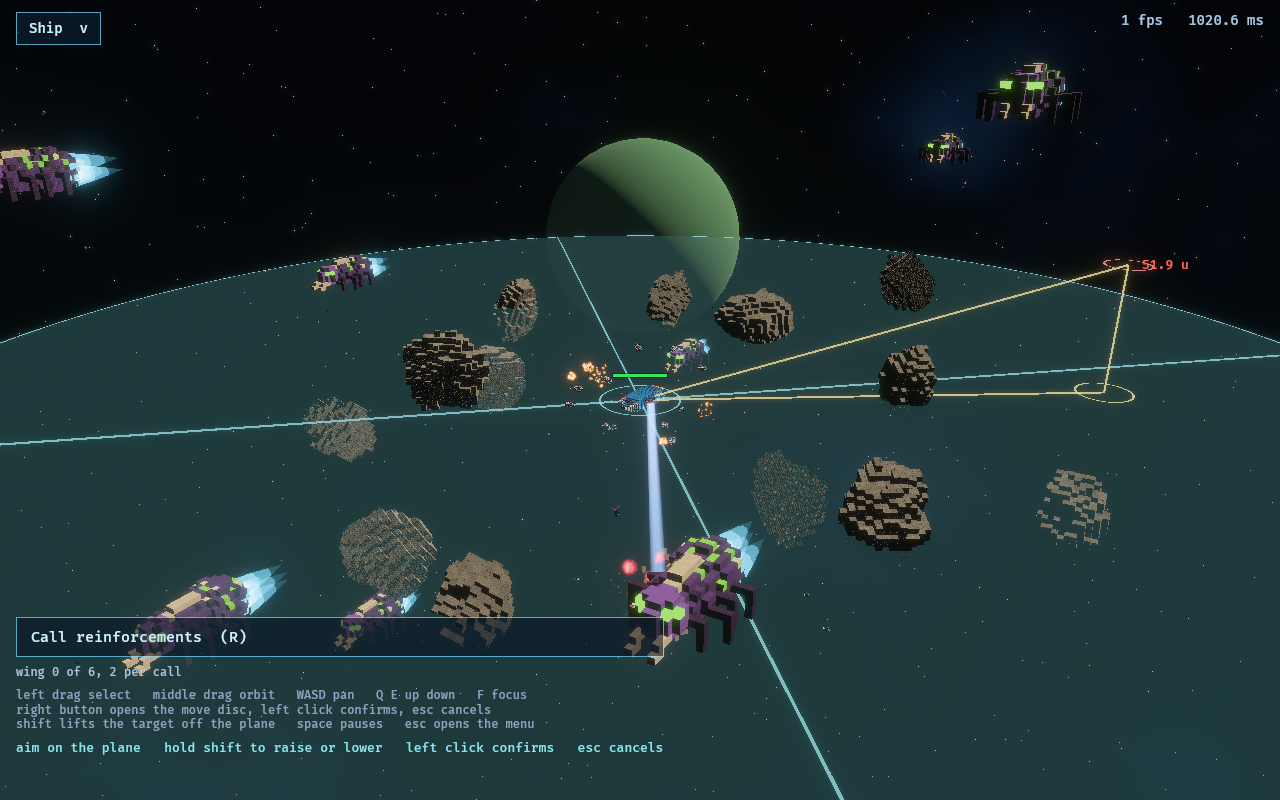
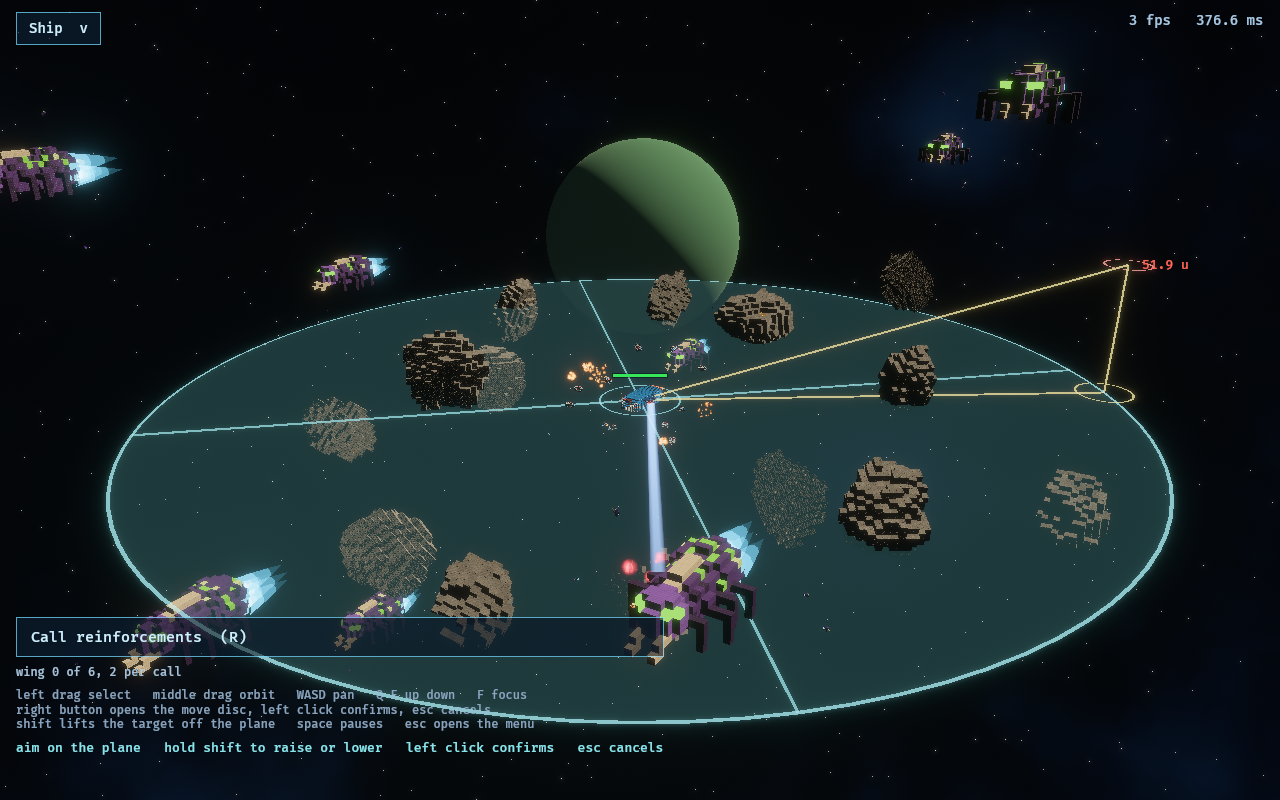
The move disc's rim is at the cursor
The disc was drawn as a fixed range ring at MOVE_RANGE radii while the
cursor named a point a third of the way out, which the owner caught off
the screenshot: a disc that does not reach the cursor says nothing about
the order. It is Homeworld's disc now, which grows with the mouse. Its
radius is the order's own distance on the plane, so the gold ring sits on
the rim by construction, the gold line out to it is a radius, and shift
raises the point straight off the rim: the triangle's base is the disc's
radius. It stops growing at MOVE_RANGE, where the cursor is already
clamped, and never falls under the gold ring's own radius so a zero order
does not drop the disc under the ship.

The prototype (artifact version 5) takes the same change so the reference
and the port agree, and the docs say why.

Re-rendered headless with `--hud --aim`: the wide shot's rim passes
through the destination ring at 50 units, the close shot's at 17.

Claude-Session: https://claude.ai/code/session_01S5xU8GXfcLHEtff8wVUhmg

Changed region(s): [[0.0, 0.2812, 1.0, 1.0], [0.875, 0.0, 0.9688, 0.0312]]

diff --git a/crates/swarm_app/src/main.rs b/crates/swarm_app/src/main.rs
@@ -3769,10 +3769,9 @@ const ARRIVE: f32 = 0.6;
 /// How fast a hull turns onto its heading, in radians a second, eased.
 const HULL_TURN: f32 = 2.2;
 /// How far one order may send a ship, in radii of the biggest hull in the
-/// selection: the radius of the move disc. Past the carriers' standoff band
-/// (`HIVE_FAR` is twenty two), so an order can reach the fight and a little
-/// beyond it, and no further. The disc IS the range: a point past its rim is
-/// not an order the ship can take, so the cursor is clamped to the rim rather
+/// selection: where the move disc stops growing. Past the carriers' standoff
+/// band (`HIVE_FAR` is twenty two), so an order can reach the fight and a
+/// little beyond it, and no further: a point past it is clamped to it rather
 /// than refused.
 const MOVE_RANGE: f32 = 24.0;
 /// Under this much drag, in pixels, a press is a click and not a box.
@@ -4475,12 +4474,11 @@ fn add_disc(pos: &mut Vec<[f32; 3]>, col: &mut Vec<[f32; 4]>, idx: &mut Vec<u32>
 /// Draw the order picture, all of it in one mesh rebuilt every frame: the
 /// selection rings, the standing orders, the move disc and the pings.
 ///
-/// The disc is the approved prototype's, one to one. A LARGE cyan disc on the
-/// plane through the selection, its rim at the move range with an X across
-/// it, which is what says "this far and no further" without a number; a
-/// small gold ring where the order will land, with a gold line from the
-/// selection to it; and when shift has lifted the point, the right angle
-/// triangle: the vertical from the plane point up to the target, the direct
+/// The disc is Homeworld's. A LARGE cyan disc on the plane through the
+/// selection whose rim is at the cursor, with an X across it; a small gold
+/// ring ON that rim where the order will land, with a gold line from the
+/// selection out to it, which is the disc's radius; and when shift has lifted
+/// the point, the right angle triangle: the vertical from the plane point up to the target, the direct
 /// line from the selection to it, and a red ring at the raised point with the
 /// distance beside it (`hud_orders` draws the label). A standing order is an
 /// orange line and ring per ship until it arrives, which is the
@@ -4525,17 +4523,27 @@ fn draw_nav(
     // ---- the move disc ----
     if *mode == OrderMode::Move {
         let r = order.radius;
-        let range = order.range();
         let at = order.anchor;
+        // The disc's rim is AT THE CURSOR. Its radius is the order's own
+        // distance on the plane, so the gold ring sits on the rim by
+        // construction and shift raises the point straight off it: the
+        // triangle's base is the disc's radius. This is Homeworld's disc,
+        // which grows with the mouse, and not a range ring: the first port
+        // drew a fixed rim at `MOVE_RANGE` while the cursor named a point a
+        // third of the way out, and a disc that does not reach the cursor
+        // says nothing about the order. It stops growing where the cursor is
+        // clamped, which is `NavOrder::range`. Never smaller than the gold
+        // ring, so the disc does not vanish under the ship at a zero order.
+        let reach = (order.on_plane - at).length().max(r * 0.85);
         // The fill is ADDITIVE and in linear light, so the prototype's 0.13
         // of alpha blended sRGB is about 0.03 here: at 0.13 the whole field
         // went teal and the ships inside it read as under water.
-        add_disc(&mut pos, &mut col, &mut idx, at, range, CYAN, 0.03, 96);
-        add_ring(&mut pos, &mut col, &mut idx, at, range, r * 0.045, CYAN, 0.95, 96);
+        add_disc(&mut pos, &mut col, &mut idx, at, reach, CYAN, 0.03, 96);
+        add_ring(&mut pos, &mut col, &mut idx, at, reach, r * 0.045, CYAN, 0.95, 96);
         // The X: two diameters at forty five and a hundred and thirty five
         // degrees, so neither lies along the line to the target.
         for a in [std::f32::consts::FRAC_PI_4, 3.0 * std::f32::consts::FRAC_PI_4] {
-            let d = Vec3::new(a.cos(), 0.0, a.sin()) * range;
+            let d = Vec3::new(a.cos(), 0.0, a.sin()) * reach;
             add_line(&mut pos, &mut col, &mut idx, eye, at - d, at + d, r * 0.03, CYAN, 0.75);
         }
         // Where it lands on the plane, and the line out to it.

diff --git a/CLAUDE.md b/CLAUDE.md
@@ -452,12 +452,17 @@ system, and every one of the four defects came from that.
   orange line and ring stand on each ship until it arrives: the order is
   visibly THERE.
 
-**The disc is the RANGE, and a point past its rim is clamped to it.** A large
-cyan disc on the plane through the selection, its rim at `MOVE_RANGE` radii
-of the biggest selected hull with an X across it; a small gold ring where the
-order lands and a gold line out to it; and lifted, the vertical, the direct
-line and a red ring at the raised point with the distance in red beside it.
-The elevation is read FROM THE CURSOR'S POSITION rather than from how far it
+**The disc's rim is AT THE CURSOR.** A large cyan disc on the plane through
+the selection whose radius is the order's own distance, with an X across it,
+so the small gold ring where the order lands sits ON the rim and the gold line
+out to it is a radius; lifted, the vertical, the direct line and a red ring at
+the raised point with the distance in red beside it, and the triangle's base
+is the disc's radius. This is Homeworld's disc, which grows with the mouse.
+The first port drew a fixed rim at `MOVE_RANGE` while the cursor named a point
+a third of the way out, and the owner caught it off the screenshot: a disc
+that does not reach the cursor says nothing about the order. It stops growing
+at `MOVE_RANGE` radii of the biggest selected hull, and a point past that is
+clamped to it. The elevation is read FROM THE CURSOR'S POSITION rather than from how far it
 moved: the plane point holds still and the target sits on the vertical through
 it at the closest point to the cursor's ray, `t = (b*e - d)/(1 - b*b)` with
 `w = P - O`. Not `O - P`, which negates `t` and put the target below the plane

diff --git a/README.md b/README.md
@@ -5,9 +5,10 @@ A real time space RTS against an alien swarm, in the voxel language of
 
 **Left drag** selects, a click picks one ship, shift adds to the selection. A
 selected ship wears a cyan ring and a health bar, and nothing else does.
-**Right click** opens the move disc on the selection: the large cyan disc is
-how far one order can send it, the small gold ring is where it will go, and
-holding **shift** lifts that point off the plane and draws the right angle
+**Right click** opens the move disc on the selection: the large cyan disc
+grows with the cursor so its rim is how far the order goes, the small gold
+ring on that rim is where it will go, and holding **shift** lifts that point
+off the rim and draws the right angle
 triangle back down to it, with the distance in red. **Left click** confirms
 (a gold ring pings at the destination and an orange line and ring stand on
 each ship until it arrives), **Esc** cancels; Esc again opens the pause menu.
